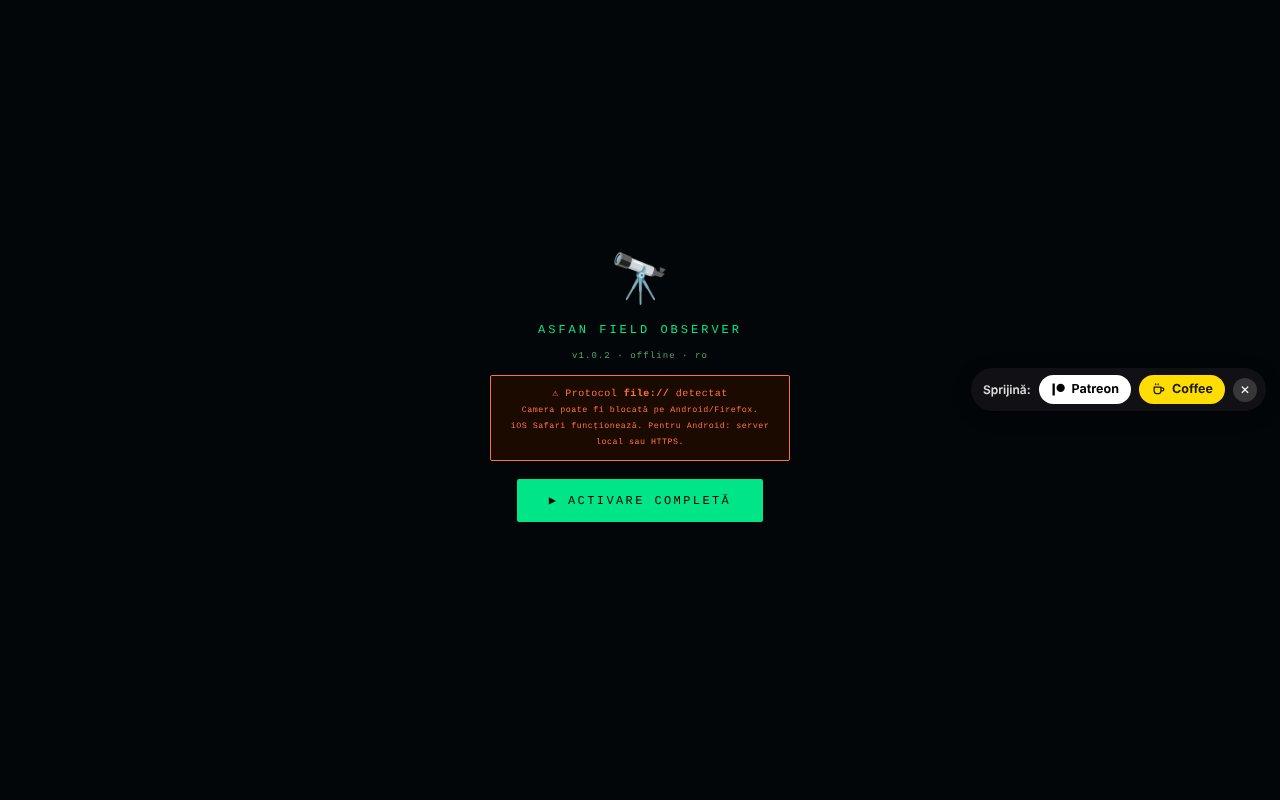
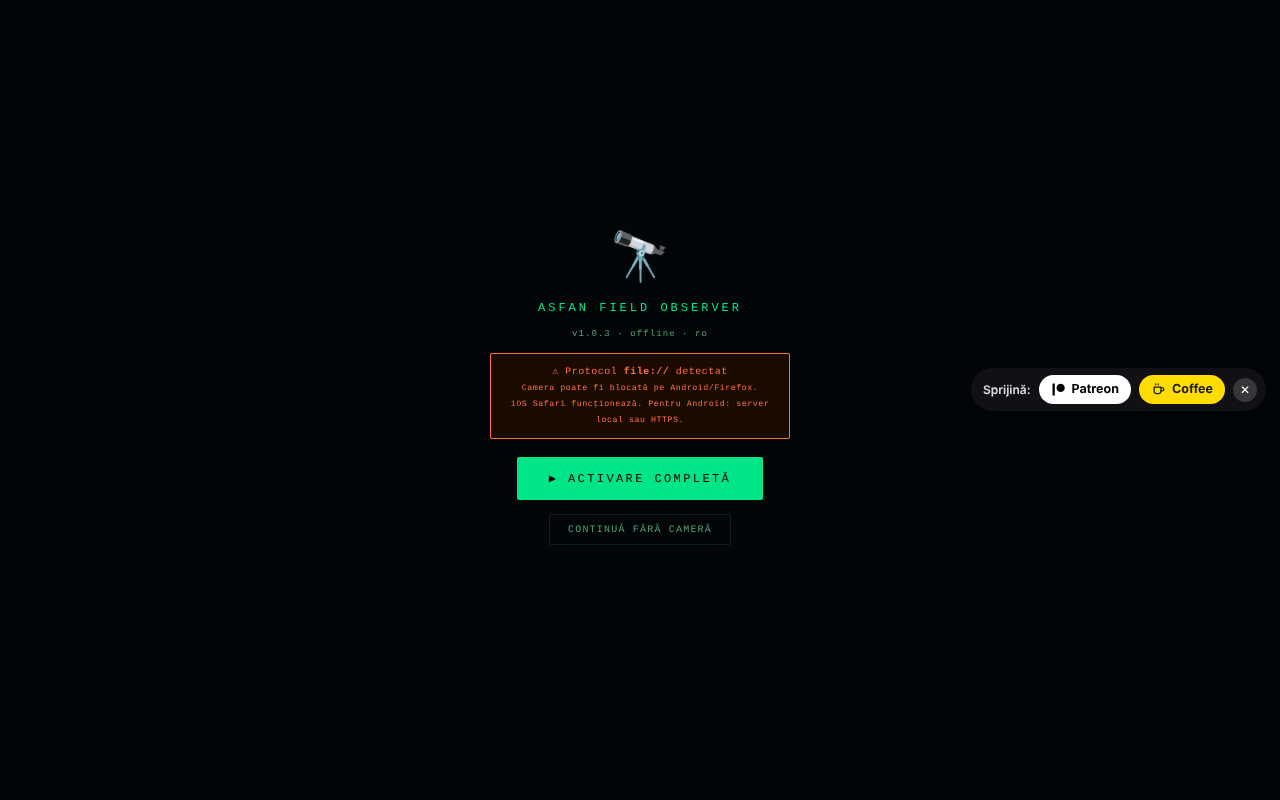
Runda 7 (11 octombrie 2026): defecte noi reparate, hash CSP, îmbunătățiri
Claude-Session: https://claude.ai/code/session_01D2sCEb3hy3nutYexhUfQFs

Changed region(s): [[0.4062, 0.2812, 0.5938, 0.6875]]

diff --git a/index.html b/index.html
@@ -28,13 +28,13 @@
 /* Accesibilitate: inel de focus vizibil pentru navigare la tastatură. */
 :focus-visible{outline:2px solid #4a90d9;outline-offset:2px;border-radius:2px}
 </style>
-  <meta http-equiv="Content-Security-Policy" content="default-src 'self'; img-src 'self' data: blob:; style-src 'self' 'unsafe-inline'; font-src 'self' data:; media-src 'self' blob: data:; object-src 'none'; base-uri 'self'; form-action 'self'; worker-src 'self' blob:; script-src 'self' blob: 'sha256-poKD4IfU1tgKEWgSnpqWSv46M55wH/OZfDVMsRG0pBc='; connect-src 'self'">
+  <meta http-equiv="Content-Security-Policy" content="default-src 'self'; img-src 'self' data: blob:; style-src 'self' 'unsafe-inline'; font-src 'self' data:; media-src 'self' blob: data:; object-src 'none'; base-uri 'self'; form-action 'self'; worker-src 'self' blob:; script-src 'self' blob: 'sha256-8V4CLzLHlwtQ5NW7BihapOvoW3MwwKxP+hzQznwZO80='; connect-src 'self'">
 <meta name="viewport" content="width=device-width,initial-scale=1.0">
 <meta name="apple-mobile-web-app-capable" content="yes">
 <meta name="mobile-web-app-capable" content="yes">
 <meta name="apple-mobile-web-app-status-bar-style" content="black-translucent">
 <meta name="theme-color" content="#020609">
-<title>ASFAN · Field Observer v1.0.2</title>
+<title>ASFAN · Field Observer v1.0.3</title>
 <style>
 :root{
   --bg0:#020609;--bg1:#040d14;--bg2:#071a24;--bg3:#0b2030;
@@ -201,7 +201,7 @@ body{display:flex;flex-direction:column;font-family:var(--f);font-size:12px;colo
   padding:20px;">
   <div style="font-size:48px">🔭</div>
   <div style="font-size:12px;letter-spacing:.25em;color:var(--g)">ASFAN FIELD OBSERVER</div>
-  <div style="font-size:9px;letter-spacing:.12em;color:var(--dim)">v1.0.2 · offline · ro</div>
+  <div style="font-size:9px;letter-spacing:.12em;color:var(--dim)">v1.0.3 · offline · ro</div>
 
   <!-- PROTOCOL WARNING (afișat dinamic) -->
   <div id="sp-warn" style="display:none;background:#1a0a00;border:1px solid var(--o);
@@ -214,6 +214,7 @@ body{display:flex;flex-direction:column;font-family:var(--f);font-size:12px;colo
     cursor:pointer;border-radius:2px;margin-top:4px;">
     ▶ ACTIVARE COMPLETĂ
   </button>
+  <button id="btn-skip" data-act="skipSplash" style="background:none;color:var(--dim);border:1px solid var(--bdr);font-family:var(--f);font-size:10px;letter-spacing:.12em;padding:9px 18px;cursor:pointer;border-radius:2px;">CONTINUĂ FĂRĂ CAMERĂ</button>
 
   <div id="sp-st" style="font-size:9px;color:var(--dim);letter-spacing:.07em;
     min-height:14px;text-align:center;max-width:300px;line-height:1.6;"></div>
@@ -350,14 +351,14 @@ document.addEventListener('DOMContentLoaded',function(){
 document.addEventListener('click',function(ev){
   var t=ev.target&&ev.target.closest?ev.target.closest('[data-act]'):null; if(!t) return;
   var a=t.getAttribute('data-act'), id=t.getAttribute('data-id');
-  var F={activateAll:activateAll,toggleCam:toggleCam,takePhoto:takePhoto,toggleAudioRec:toggleAudioRec,toggleTorch:toggleTorch,toggleNFC:toggleNFC,saveRec:saveRec,openArch:openArch,closeArch:closeArch,
+  var F={activateAll:activateAll,skipSplash:skipSplash,toggleCam:toggleCam,takePhoto:takePhoto,toggleAudioRec:toggleAudioRec,toggleTorch:toggleTorch,toggleNFC:toggleNFC,saveRec:saveRec,openArch:openArch,closeArch:closeArch,
     closePv:function(){document.getElementById('pv').classList.remove('on');},
     viewPhoto:viewPhoto,playAudio:playAudio,shareRec:shareRec,dlRec:dlRec,delRec:delRec,
     expAll:expAll,expCsv:expCsv,impJson:function(){document.getElementById('ar-fi').click();}};
   if(F[a]) F[a](id!==null?Number(id):undefined);
 });
 // ═══════════════════════════════════════════════════
-// ASFAN FIELD OBSERVER v1.0.2 (2026-10-11)
+// ASFAN FIELD OBSERVER v1.0.3 (2026-10-11)
 // Single-file HTML · Offline · UI Română
 // Toate API-urile smartphone activate simultan
 // ═══════════════════════════════════════════════════
@@ -740,6 +741,11 @@ function activateAll(){
   })();
 }
 
+function skipSplash(){
+  const sp=document.getElementById('splash'); sp.style.display='none';
+  try{reqOriPerm();reqMotPerm();}catch(e){}
+  toast('Fără cameră: senzorii disponibili rămân activi; reia din butonul START',3500);
+}
 // Diagnostics protocol la încărcare
 (function checkProto(){
   const proto=location.protocol;
@@ -1132,7 +1138,7 @@ function expCsv(){
     const num=v=>isNum(v)?v:'';
     const rows=[['ts','lat','lon','alt_m','precizie_m','azimut_deg','elevatie_deg','lux','baterie_pct','nota','foto','audio']];
     list.forEach(r=>{const g=r.gps||{},o=r.ori||{},b=r.bat||{};
-      rows.push([r.ts,num(g.lat),num(g.lon),num(g.alt),num(g.acc),isNum(o.az)?dg(o.az).toFixed(1):'',num(o.bt),num(r.lux),num(b.lvl),r.notes||'',r.photo?'da':'',r.audio?'da':'']);});
+      rows.push([r.ts,num(g.lat),num(g.lon),num(g.alt),num(g.acc),isNum(o.az)?dg(o.az).toFixed(1):'',num(o.bt),num(r.lux),isNum(b.lvl)?Math.round(b.lvl*100):'',r.notes||'',r.photo?'da':'',r.audio?'da':'']);});
     const csv=''+rows.map(r=>r.map((c,i)=>i===0||i===9?csvCell(c):(c===''?'':String(c))).join(',')).join('\r\n');
     const a=document.createElement('a'),u=URL.createObjectURL(new Blob([csv],{type:'text/csv;charset=utf-8'}));
     a.href=u;a.download='asfan_rapoarte_'+stamp().replace(/[T:]/g,'_')+'.csv';document.body.appendChild(a);a.click();a.remove();

diff --git a/README.md b/README.md
@@ -10,12 +10,12 @@ Observator de teren pe telefon: GPS, busolă, mișcare, lumină, sunet, cameră,
 
 ## Ce este
 
-ASFAN Field Observer (v1.0.2) este o aplicație single-file, gândită pentru telefon, care afișează în timp real datele senzorilor dispozitivului și permite salvarea de „rapoarte" de teren (date de senzori, notă, fotografie, înregistrare audio). Interfața este în română.
+ASFAN Field Observer (v1.0.3) este o aplicație single-file, gândită pentru telefon, care afișează în timp real datele senzorilor dispozitivului și permite salvarea de „rapoarte" de teren (date de senzori, notă, fotografie, înregistrare audio). Interfața este în română.
 
 ## Funcții
 
 - Bară de stare: ceas, lumină (lux), rețea, nivel baterie, coordonate GPS.
-- Buton „▶ ACTIVARE COMPLETĂ" care cere permisiunile necesare dintr-un singur gest; „RESET PERMISIUNI" pentru reluare.
+- Buton „▶ ACTIVARE COMPLETĂ" care cere permisiunile necesare dintr-un singur gest; „RESET PERMISIUNI" pentru reluare; „CONTINUĂ FĂRĂ CAMERĂ” deschide aplicația și când camera/microfonul nu sunt disponibile (desktop, file://).
 - Vizor cu cameră (cameră spate/față; dublă atingere schimbă camera), cu suprapunere grafică.
 - Panouri: **BUSOLĂ** (azimut și direcție), **MIȘCARE** (accelerație m/s², viteză unghiulară °/s), **AUDIO** (nivel în dB), **LUMINĂ** (lux, dacă senzorul există), **BATERIE**, **REȚEA**.
 - Butoane: START (cameră), **FOTO**, **AUDIO** (înregistrare), **TORȚĂ** (dacă dispozitivul o permite), **NFC**, **SALVARE**, **ARHIVĂ**.
@@ -48,6 +48,10 @@ ASFAN Field Observer (v1.0.2) este o aplicație single-file, gândită pentru te
 Descărcați `index.html` și deschideți-l prin `localhost` (de ex. `python3 -m http.server 8080`) sau de pe un host HTTPS; senzorii și camera cer un context sigur. Nu necesită internet. Disponibilitatea senzorilor depinde de dispozitiv și de browser.
 
 ## Istoric / Changelog
+
+### 11 octombrie 2026 (a treia trecere) — versiunea 1.0.3
+- Export CSV: coloana `baterie_pct` scria fracția 0–1 (1 pentru 100%); acum scrie procentul (100).
+- Ecranul de activare nu mai blochează aplicația când camera nu e disponibilă (file://, desktop): butonul „CONTINUĂ FĂRĂ CAMERĂ”. CSP: hash recalculat.
 
 ### 11 octombrie 2026 (a doua trecere) — versiunea 1.0.2
 - Arhivă: căutare, export complet JSON și CSV (celule protejate contra interpretării ca formule), import JSON cu validarea câmpurilor, coordonate cu emisfere corecte (N/S, E/V; înainte „°N/°E” fix, chiar și pentru valori negative) și legătură „hartă”, mesaj de arhivă goală cu îndrumare, `aria-label` pe butoanele cu emoji, dialog cu focus și Esc, toast ca regiune `status`. CSP: hash recalculat. Captură actualizată.
